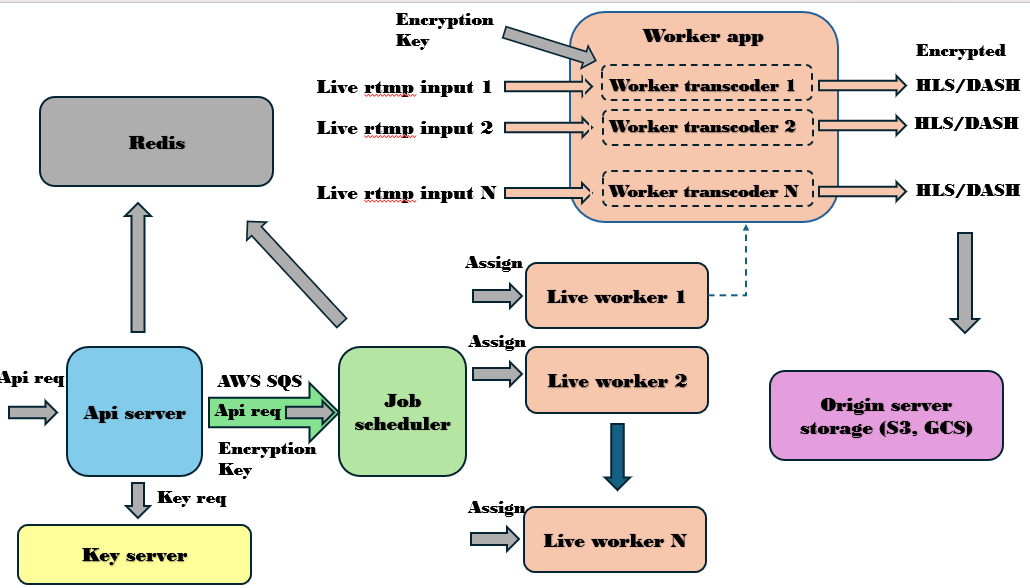
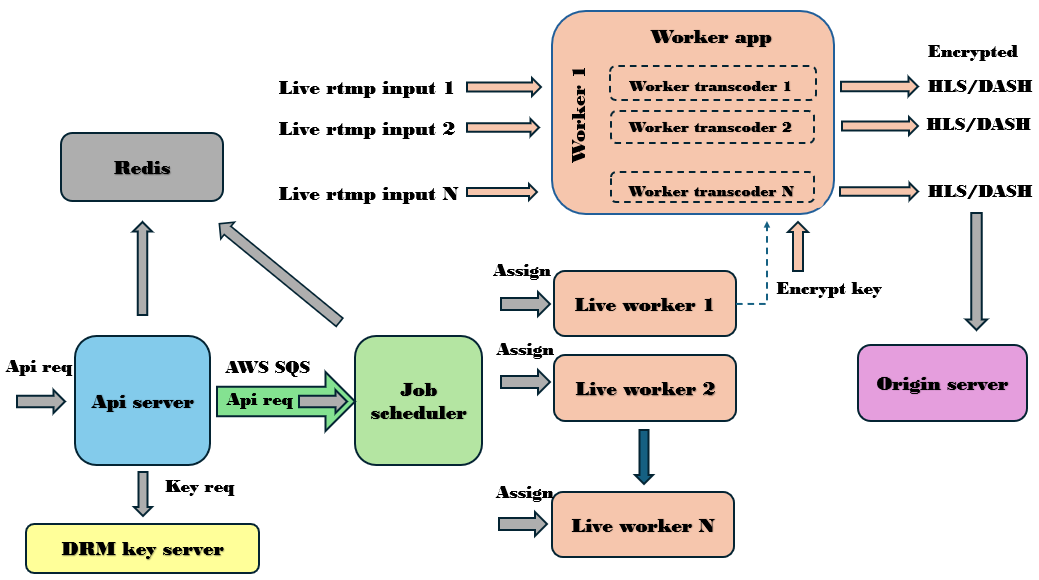
Adding Key ID to key file

Changed region(s): [[0.0, 0.0, 1.0, 1.0]]

diff --git a/worker/transcoder/worker_transcoder.go b/worker/transcoder/worker_transcoder.go
@@ -82,8 +82,9 @@ func manageCommands(command1 *exec.Cmd, command2 *exec.Cmd) {
     }
 }
 
-func writeKeyFile(key string, keyFileName string) error {
-    b := []byte(key)
+func writeKeyFile(kid string, key string, keyFileName string) error {
+    key_pair := kid + ":" + key
+    b := []byte(key_pair)
     err := os.WriteFile(keyFileName, b, 0644)
     if err != nil {
         Log.Printf("Failed to write key file. Error: ", err)
@@ -102,7 +103,7 @@ func createUploadDrmKeyFile(keyInfoStr string, local_media_output_path string, r
     }
 
     // First, write key file to a local path
-    err = writeKeyFile(k.Key, local_media_output_path + models.DrmKeyFileName)
+    err = writeKeyFile(k.Key_id, k.Key, local_media_output_path + models.DrmKeyFileName)
     if err != nil {
         return err
     }

diff --git a/README.md b/README.md
@@ -1,8 +1,6 @@
 # ezLiveStreaming
 
-ezLiveStreaming is designed to be a highly scalable and efficient live transcoding system written in Go. ezLiveStreaming provides simple API for users to create and manage their live streams via HTTP. A user can create a new live stream by submitting a create_stream request to the API server and specify how she want the live stream to be transcoded and streamed, for example, what the transcoding video/audio codec she want to use, what resolutions/bitrate/frame rate are used for outputting video streams, and what delivery format (Apple-HLS or MPEG-DASH) is used to stream to live viewers. ezLiveStreaming outputs and uploads audio/video segments and manifests/playlists to origin streaming servers for delivering to the viewers. 
-
-ezLiveStreaming is designed to be highly scalable, reliable and resource efficient. This repository also includes a simple transcoding UI for demo purposes. ezLiveStreaming uses **FFmpeg** for live video transcoding and packaging. I'm currently working on using **Shaka packager** to package and DRM-protecting live streams.
+ezLiveStreaming is a highly scalable and efficient live transcoding system written in Go. ezLiveStreaming provides simple API for users to create and manage their live streams via HTTP. A user can create a new live stream by submitting a *create_stream* request to the API server and specify how she wants the live stream to be transcoded and streamed, for example, what transcoding video/audio codec she wants to use, what resolutions/bitrate/frame rate to use for outputting video streams, and what protocols (Apple-HLS or MPEG-DASH) to use for streaming to the viewers. ezLiveStreaming outputs and uploads stream media segments and manifests/playlists to cloud origin servers such as AWS S3. ezLiveStreaming includes a simple transcoding UI for demo purposes. ezLiveStreaming uses **FFmpeg** for live video transcoding and uses **Shaka packager** for packaging and DRM protection. 
 
 ## What can ezLiveStreaming do?
 
@@ -10,7 +8,7 @@ ezLiveStreaming is designed to be highly scalable, reliable and resource efficie
 - HLS/DASH streaming, 
 - live transcoding API,
 - clear key DRM protection, 
-- uploading transcoder outputs to AWS S3 buckets,
+- uploading transcoder outputs to AWS S3,
 - standard-compliant media transcoding and packaging which potentially work with any video players.
 
 # Workflow and high-level architecture
@@ -24,7 +22,7 @@ ezLiveStreaming consists of 5 microservices that can be independently scaled,
 
 ![screenshot](diagrams/architecture_diagram.png)
 
-The API server exposes API endpoints to users for submitting and managing their live streams. The API server receives job requests from users and sends them to the job scheduler via a job queue (**AWS Simple Queue Service**). The job scheduler then assign the new job requests to live workers from the worker cluster. The live workers launch ffmpeg/shaka packager instances to ingest, transcode, package and output live streams. The users are responsible for generating live input feeds (using for example, RTMP, SRT) and pushing them to the ffmpeg workers. The API server uses a stateless design which the server does not maintain any in-memory states of live jobs. Instead, all the states are kept in Redis data store.
+The API server exposes API endpoints to users for submitting and managing their live streams. The API server receives job requests from users and sends them to the job scheduler via a job queue (**AWS Simple Queue Service**). The job scheduler receives a new job request from the job queue, picks a live worker from the worker cluster then assigns the job request to it. The selected live worker launches ffmpeg/shaka packager instances to run the live channel. Specifically, a ffmpeg transcoder is started to ingest and transcode the live input feed, and also a shaka packager is started to receive transcoded multi-bitrate MPEG transport streams from ffmpeg transcoder, then package, encrypt and output an ABR stream (e.g., HLS/DASH). The output HLS/DASH stream is uploaded to cloud origin servers such as AWS S3. The users are responsible for generating and pushing live input feeds (using protocols such as RTMP SRT) to the ffmpeg transcoder. The API server requests DRM encrypt key from ezKey_server, pass it along to Shaka packager with other DRM configurations for stream encryption.The API server uses a stateless design which the server does not maintain any in-memory states of live jobs. Instead, all the states are kept in Redis data store. 
 
 ## List of API methods
 
@@ -45,7 +43,7 @@ Creating a new live transcoding request (a.k.a. live transcoding job or live job
                 "disable_clear_key": false,
                 "Protection_system": "FairPlay",
                 "Protection_scheme": "cbcs"
-            },
+        },
         "S3_output": {
             "Bucket": "bzhang-test-bucket-public"
         },
@@ -101,13 +99,13 @@ Creating a new live transcoding request (a.k.a. live transcoding job or live job
 | Low_latency_mode | boolean | whether low latency mode is used | n/a |
 | Time_shift_buffer_depth | integer | DASH time_shift_buffer_depth in second (applicable to HLS too), i.e., DVR window size | n/a |
 | Drm | json | DRM configuration | n/a |
-| disable_clear_key | bool | whether clear key DRM is disabled | n/a |
+| disable_clear_key | boolean | whether clear key DRM is disabled | n/a |
 | Protection_system | string | DRM protection system | "FairPlay" (other systems to be added, e.g., "Widewine"m "PlayReady") |
 | Protection_scheme | string | DRM protection (encryption) scheme | "cbcs" (other schemes to be added, e.g., "cenc") |
-| S3_output | json | output S3 bucket configuration | n/a |
+| S3_output | json | S3 output configuration | n/a |
 | Bucket | string | S3 bucket name | n/a |
-| Video_outputs | json array | Array of video rendition outputs | n/a |
-| Label | string | label of an output (rendition) | n/a |
+| Video_outputs | json array | Array of video output renditions | n/a |
+| Label | string | label of an output rendition | n/a |
 | Codec (Video_outputs) | string | video codec | "h264" (libx264), "h265" (libx265) |
 | Framerate | integer | output video frame rate | n/a |
 | Width | integer | output video resolution (width) | n/a |
@@ -156,21 +154,25 @@ Resume a job given by its ID. Upon request, the stopped job will be resumed. A n
 
 ![screenshot](diagrams/resume_job.png)
 
-The job scheduler periodically polls the job queue and fetches a job from AWS SQS. The frequency of job queue polling must be set low to avoid any delay of job processing. The newly fetched jobs are inserted to the back of the "queued_jobs" list in Redis. On the other side, the job scheduler also periodically checks the front of "queued_jobs" for new jobs. When a new job is found in the "queued_jobs", it is assigned to a transcoding worker from the worker cluster. Different job assignment algorithms can be used, such as random assignment, round robin assignment, etc. The job scheduler is responsible for managing a live job throughout its lifecycle, for examplem, assigning the job to a worker, monitoring its status, restarting/reassigning the job if it fails for any reason. 
+This repository also provides a postman collection including all the external and internal API provided by the API server, the job scheduler and worker_app.
 
-The job scheduler also manages a cluster of transcoding workers. Specifically, the scheduler assigns ID to a new worker upon new worker registration, monitor heartbeats of all the workers, monitoring workload of each worker for job assignment purposes, etc. The job scheduler does not maintain any states of live jobs and live workers in memory, rather it keeps all the data in Redis. Therefore, you can put a load balancer in front of all the job scheduler instances, so that any one instance can either serve new jobs from the API server or communicate with the live workers. 
+The job scheduler periodically polls the job queue and fetches a job from AWS SQS. The frequency of job queue polling must be set low to avoid any delay of job processing. The newly fetched jobs are inserted to the back of the "queued_jobs" list in Redis. On the other side, the job scheduler periodically checks the front of "queued_jobs" for new jobs. When a new job is found in the "queued_jobs", it is assigned to a transcoding worker from the worker cluster. Different job assignment algorithms can be used, such as random assignment, round robin assignment, etc. The job scheduler is responsible for managing a live job throughout its lifecycle, for example, assigning the job to a worker, monitoring its status, restarting/reassigning the job if it fails. 
 
-A live transcoding worker (or simply live worker) receives a live job from the job scheduler and launches a worker_transcoder to execute the job. Specifically, the worker launches a ffmpeg transcoder that ingest a live input stream. The input stream can be a RTMP or SRT stream (Currently, ezLiveStreaming only supports RTMP ingest). The worker_transcoder takes the user-specified parameters to transcode the input to multiple outputs with different bitrates. *job/command.go* is responsible for translating the live encoding specification to ffmpeg arguments.
+The job scheduler also manages a cluster of live transcoding workers. Specifically, the scheduler assigns ID to each new worker when it starts. After that, the scheduler keeps monitoring heartbeats sent from the worker. The scheduler also monitors workload of each worker as new job requests come in and get finished. 
 
-When worker_app on a live worker first starts, it needs to register with the job scheduler and receives a worker id assigned by the scheduler. After that worker_app needs to send periodic heartbeat to the scheduler so that the latter knows the former is still running. If no heartbeat is received for some time from a worker, the scheduler presumes that worker is no longer running and removes it from the active worker set and also remove all the live jobs running on that worker. On the worker side, worker_app needs to periodically ping the live jobs (worker_transcoders) running on it. If a worker_transcoder does not respond, the worker_app presumes that the corresponding live job is no longer running and it will update its workload with the job scheduler. The job scheduler will remove the bad jobs from that worker's workload record.
+Though the job scheduler manages all the live jobs and live workers, it does not maintain any states of them in memory, instead they are all kept in Redis. Because of its stateless design, one can put a load balancer in front of a cluster of independent job scheduler instances, so that any one instance can be assigned to handle any job requests or events from the workers. 
 
-A list of internal API provided by job scheduler and worker_app can be found in ezLiveStreaming postman_collection.
+Each live worker is a virtual machine that runs ezLiveStreaming worker services. The worker runs a web service daemon called worker_app which communicates with the job scheduler to receive job requests, report job status, or worker status, etc. When the worker_app receives a live job request from the scheduler, it launches an instance of **worker_transcoder** to execute the job. Specifically, the worker_transcoder launches a ffmpeg transcoder and a Shaka packager to run a live video channel. The worker_transcoder follows the transcoding/packaging parameters specified in the live job request to transcode the input to multiple outputs with different bitrates. *job/command.go* is responsible for translating the live encoding parameter to ffmpeg and Shaka packager command-line options.
+
+When worker_app on a live worker first starts, it registers with the job scheduler and receives a worker ID assigned by the scheduler. After that worker_app needs to send periodic heartbeat to the scheduler so that the latter knows the former is still running. If no heartbeat is received from a worker for a certain length of time, the scheduler presumes that worker is no longer running so it deletes the worker from the active worker set and also stops all the live jobs running on that worker. The worker_app also handles **stop_job** requests and **resume_job** requests to stop a running job or resumes a stopped job. 
+
+A worker_app not only handles normal job requests, it also handles unexpected job failures. To detect failed jobs, a worker_app periodically ping the live jobs (worker_transcoders) running on that worker VM. If a worker_transcoder does not respond, the worker_app presumes that the corresponding live job is no longer running. The worker_app reports the failed jobs to the job scheduler. The latter will adjust workload accordingly.
 
 # Live stream data flow
 
 ![screenshot](diagrams/data_flow.png)
 
-ezLiveStreaming's live stream data flow is shown in the above diagram. From left to right, the contribution encoder generates and sends live RTMP stream (SRT to be added) to a ffmpeg transcoder running on the worker VM (started by worker_transcoder). The transcoder outputs N number of output MPEG-TS streams, one for each configured output rendition in the job request. The MPEG-TS streams are sent to a Shaka packager (also starte3d by worker_transcoder) running on the same LAN over UDP. Shaka packager outputs HLS/DASH streams as fragment MP4 segments and playlist files and write to local disk. Worker_transcoder runs a file watcher (fsnotify) which watches for new files written to the local stream output folders, then uploads any new files to the configured S3 bucket (i.e., S3_output.Bucket). The S3 buckets serves as the origin server which can deliver HLS/DASH streams to end users via CDN.
+The live stream data flow on a live worker VM is shown in the above diagram. To run a live channel, the worker_transcoder launches a ffmpeg transcoder and a Shaka packager. From left to right, the contribution encoder generates and sends live RTMP stream (SRT to be added) to the ffmpeg transcoder. The ffmpeg transcoder outputs N number of output MPEG-TS streams, where N is the number of configured output renditions in the live job request. The MPEG-TS streams are sent to Shaka packager running on the same VM. Shaka packager outputs HLS/DASH streams as fragmented MP4 segments and playlist files and write to local disk. Worker_transcoder runs a file watcher (fsnotify) which watches for new files written to the local stream output folders, then uploads any new files to the configured S3 bucket (i.e., S3_output.Bucket). The S3 buckets serves as the origin server which can deliver HLS/DASH streams to end users via CDN.
 
 # DRM configuration
 
@@ -183,7 +185,7 @@ A simple clear key DRM key server is implemented to generate random 16 byte key-
     "Protection_scheme": "cbcs"
 },
 ```
-Currently, ezLiveStreaming **ONLY** supports the above DRM configuration. Particularly we must set *disable_clear_key* to false, *Protection_system* to *FairPlay* and *Protection_scheme* to *cbcs* in order to use clear-key protection scheme. Supporting a full DRM workflow requires integration with 3rd party, paid DRM services which I am happy to implement if sponsorship is provided.
+Currently, ezLiveStreaming **ONLY** supports the above DRM configuration. Particularly we must set *disable_clear_key* to false, *Protection_system* to *FairPlay* and *Protection_scheme* to *cbcs* in order to use clear-key protection scheme. Supporting a full DRM workflow requires integration with 3rd party DRM services which I am happy to work on if sponsorship is provided.
 
 To play the clear-key DRM-protected HLS stream, I used Shaka player and configured key_id and key in the player. I simply added the following section to the Shaka player configuration,
 ```
